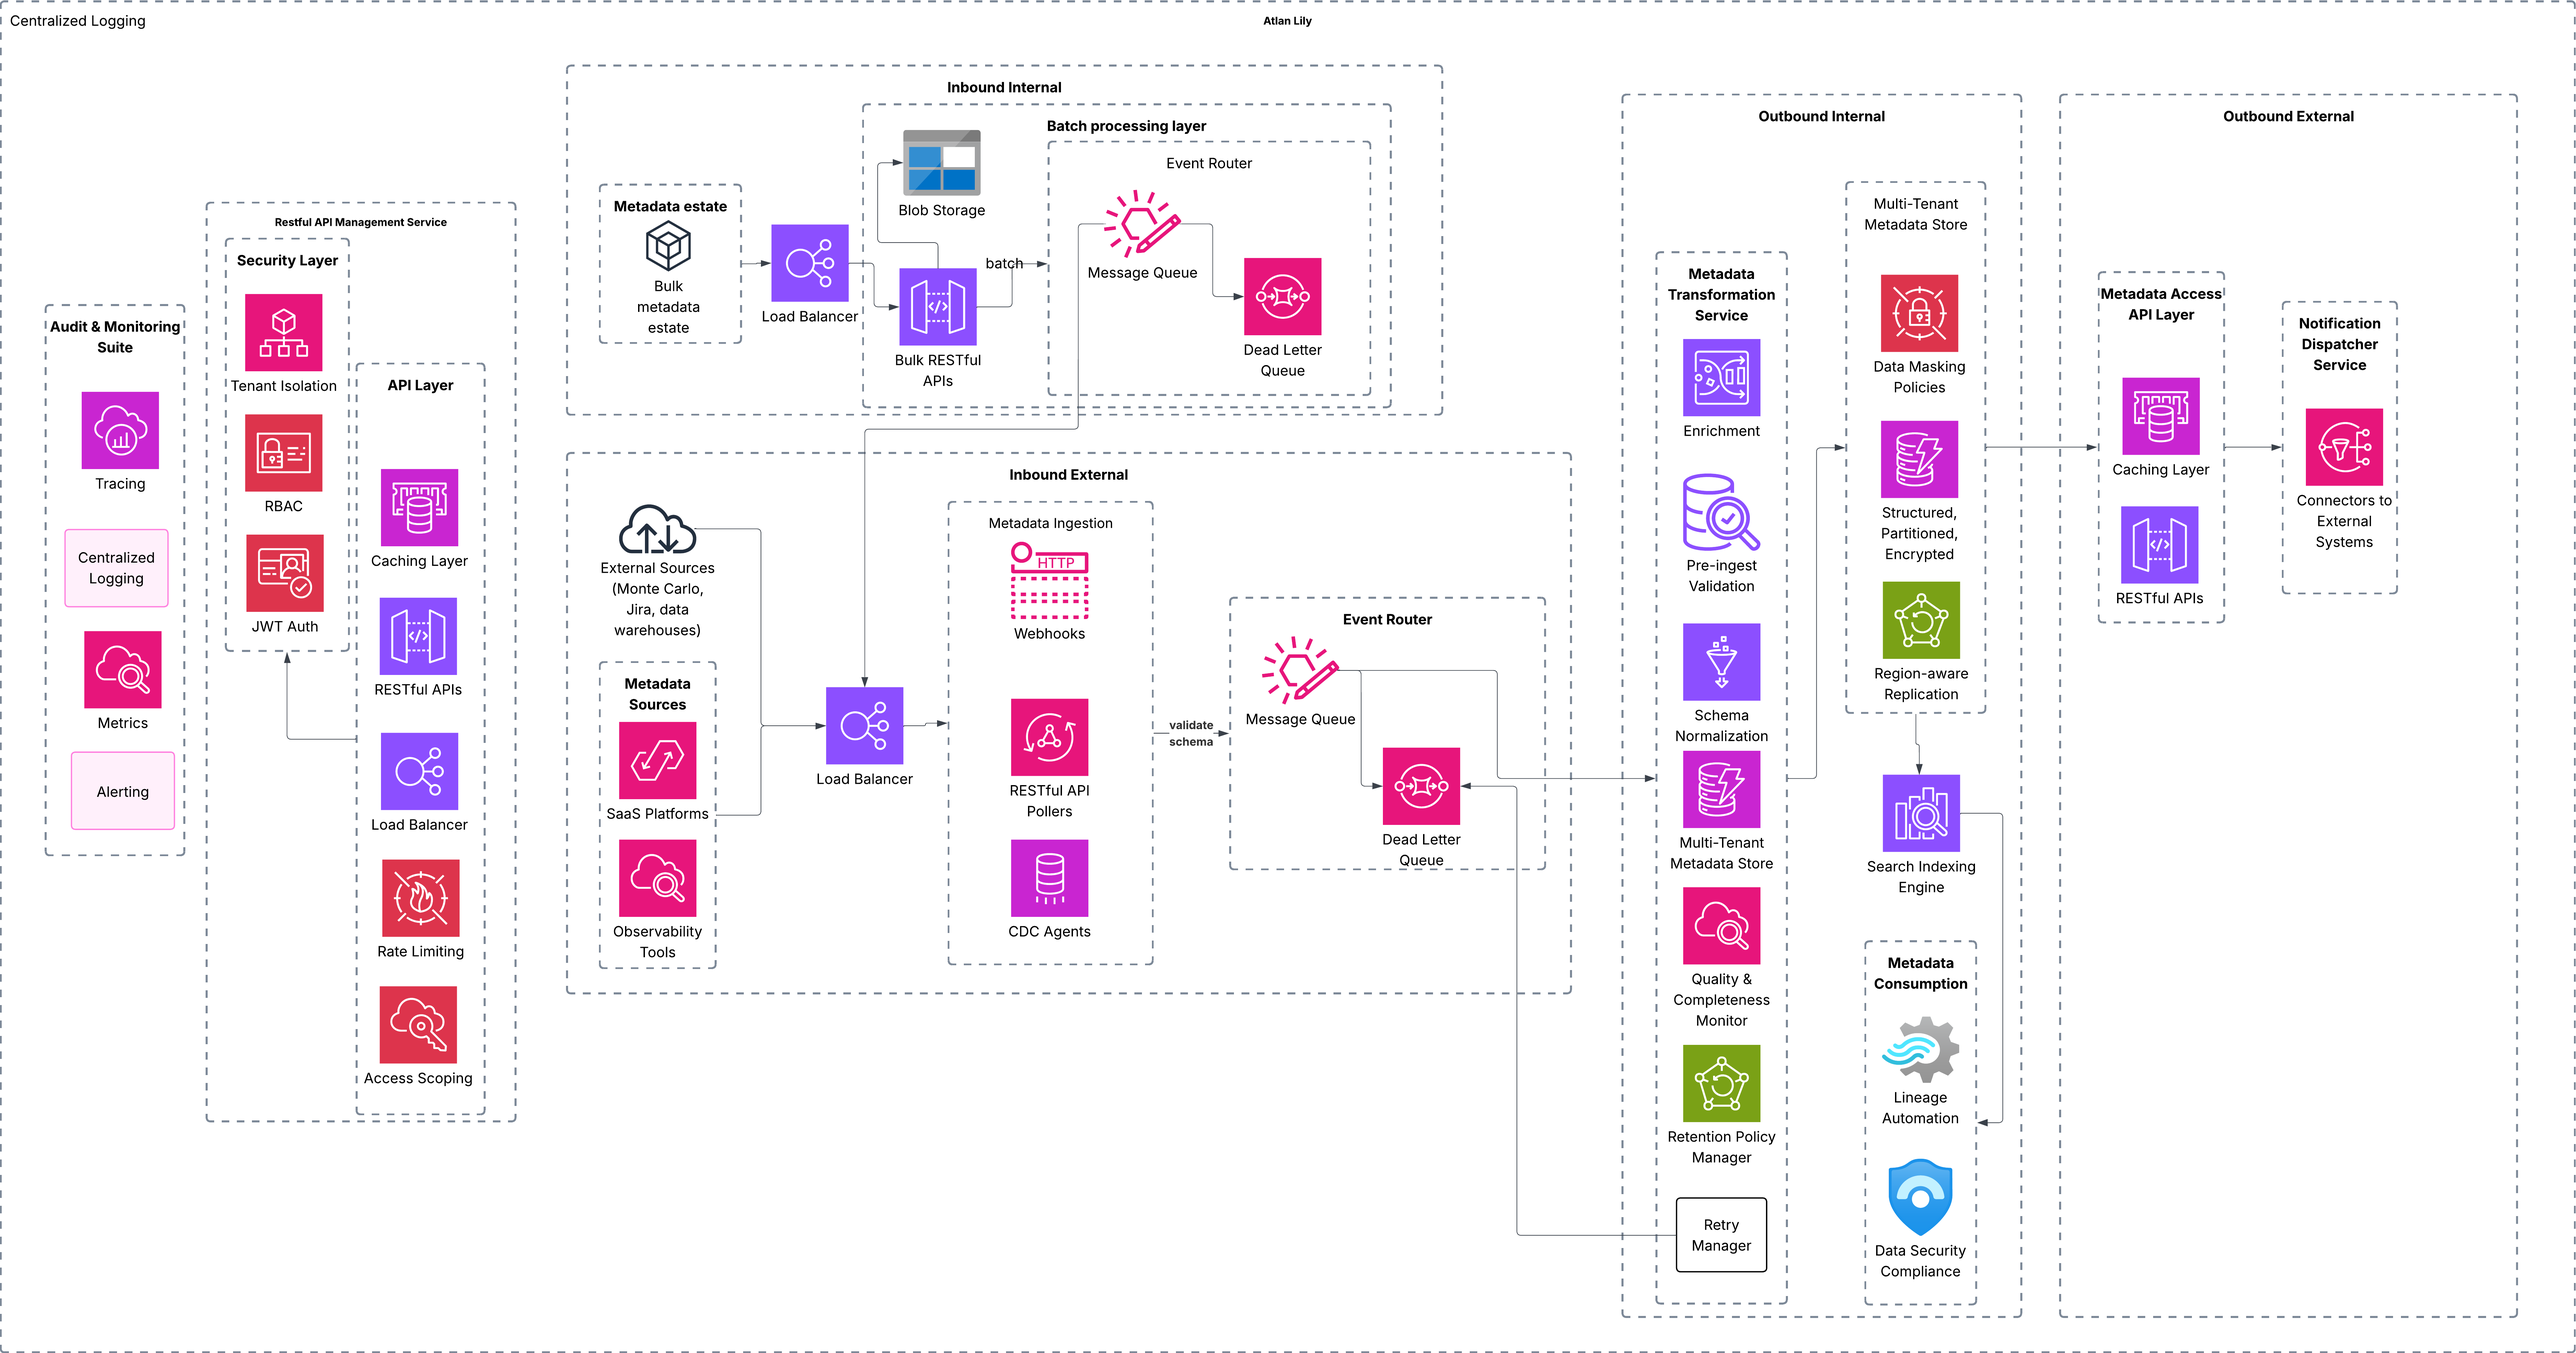
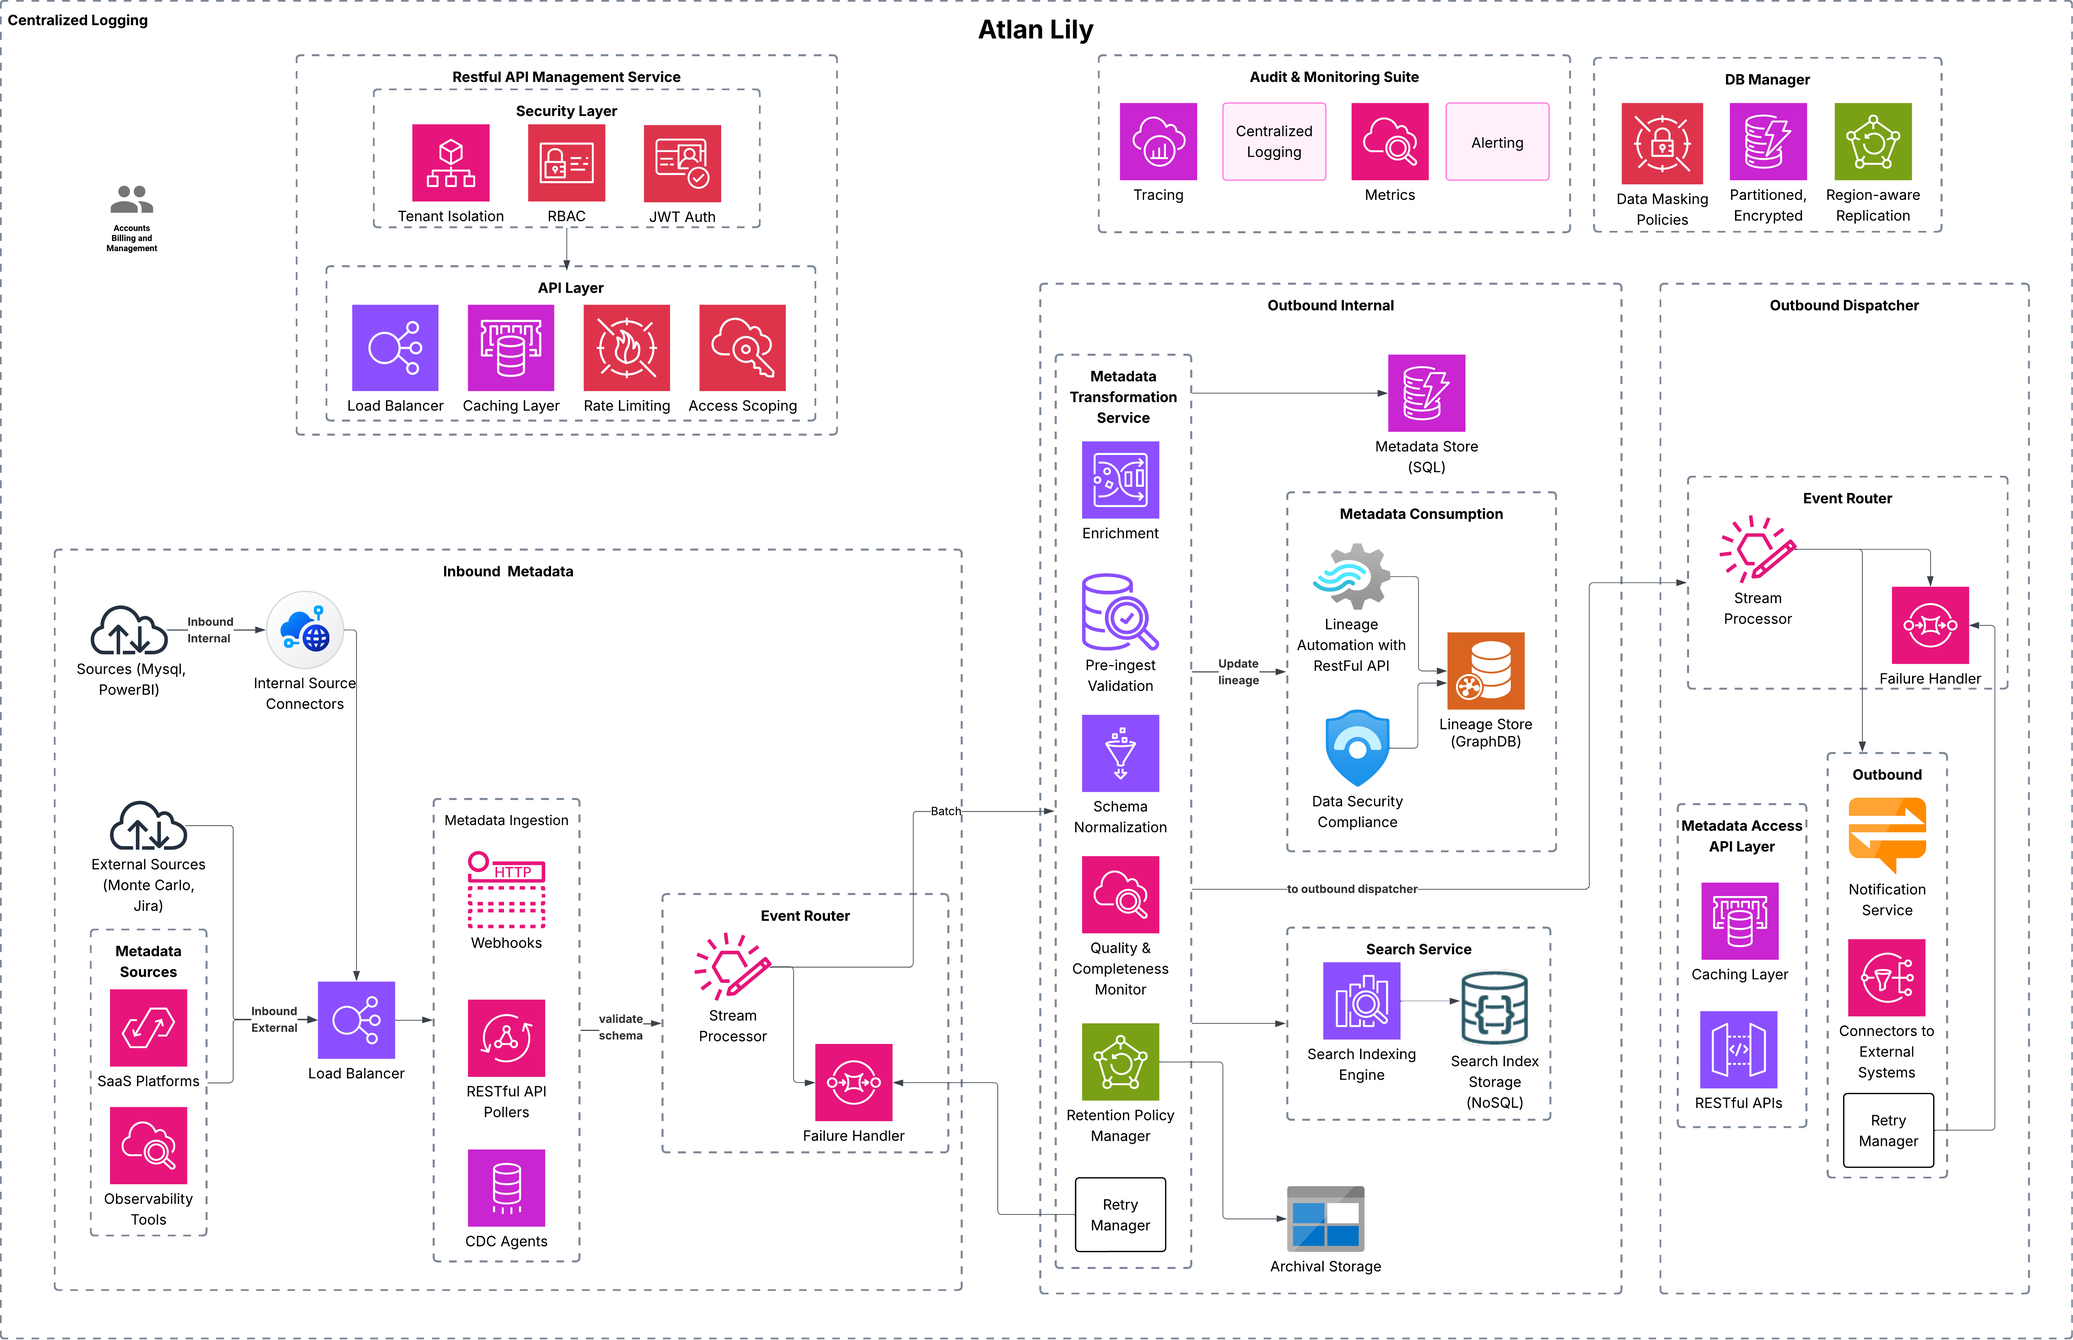
updated arch

diff --git a/README.md b/README.md
@@ -168,21 +168,20 @@ This API requires **JWT** authentication for access.
 
 [Atlan Lily Open API Spec](atlan-lily-v1.yaml)
 ---
-## Architecture Overview
-
-![Atlan Lily Architecture Diagram](lily-overview.drawio.png)
 ## Use Cases
 ![Atlan Lily Architecture Diagram](lily-use-case-v2.png)
 
 ---
 
 ## Architecture Diagram
-![Atlan Lily Architecture Diagram](lily-arch-v5.png)
+![Atlan Lily Architecture Diagram](lily-arch-v3.png)
 
 # Sequence of Interaction
 ## Metadata Ingestion
 ![Metadata Ingestion](<metadata-ingestion-seq.png>) 
 ## Metadata Transformation Service
 ![Metadata Transformation Service](metadata-transformation-service.png) 
+## Outbound Dispatcher Service
+![Bulk Metadata Ingestion](outbound-external-seq.png)
 
 ---
